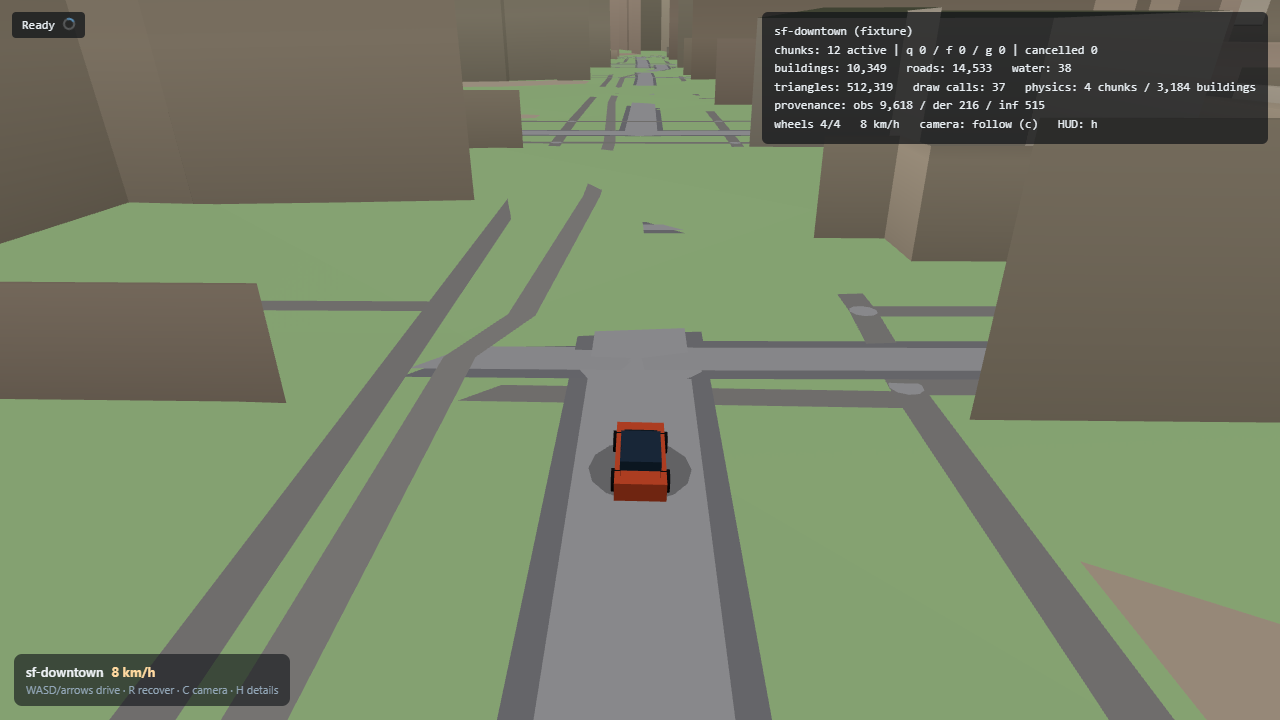
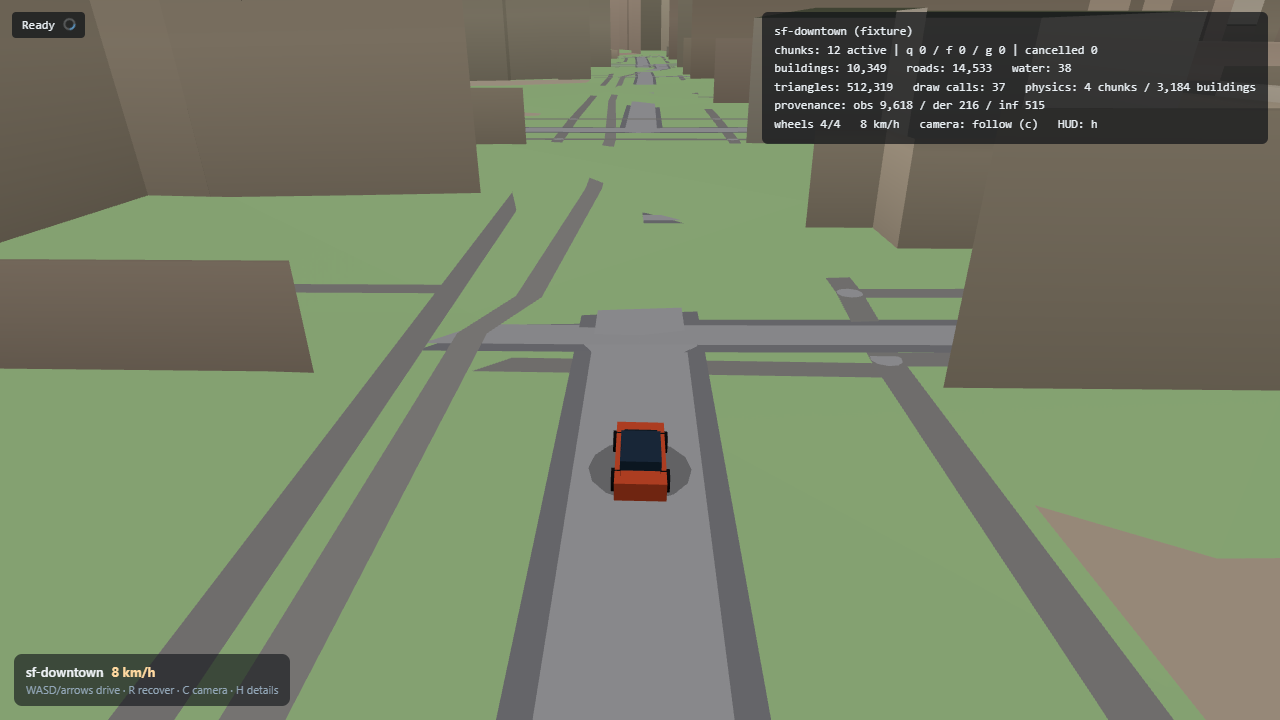
docs(close): CONTINUATION/NEXT_ACTION rewritten for recovery completion; R-028..R-030 PASS (candidate) in REQUIREMENTS/TRACEABILITY; final harness report

diff --git a/docs/agent/CONTINUATION.md b/docs/agent/CONTINUATION.md
@@ -1,35 +1,55 @@
 # CONTINUATION — recovery after interruption
 
-- **Branch**: main. **HEAD**: `2a40ee8` (`2a40ee860398dcd751dff90d7ae7f8437ff66b34`). origin/main == local HEAD. Working tree clean.
+- **Branch**: `fidelity-recovery` (owner-mandated work branch for the fidelity/style
+  recovery). Rollback baseline `2a40ee8` untouched on origin/main (deployed release).
+- **Current HEAD**: see `git rev-parse HEAD` (last commit of the recovery phase).
+  Local-only so far — **no push to main** until side-by-side evidence is approved.
 - **Remote**: https://github.com/julenberazaa/3D_City.git.
-- **Deployment**: PUSHED and VERIFIED. GitHub Actions CI green on HEAD (run 31541858046: verify + deploy-pages SUCCESS). Public URL https://julenberazaa.github.io/3D_City/ live, HTTP 200, `node scripts/perf/verify-deployed.mjs` = 8/8 PASS on the deployed site, real-GPU benchmark on the public URL: FPS p50 164, p95 6.6 ms, heap 57 MB, 0 errors. No push blocker.
-- **Model lock**: engineering = `opencode-go/deepseek-v4-flash`; visual = `opencode-go/gpt-5.6-luna` (docs/agent/MODEL_LOCK.md).
-- **Architecture**: Vite+TS, three.js WebGL2 (adaptive DPR governor), Rapier raycast
-  vehicle + per-chunk heightfield/box colliders, Overture 2026-07-22.0 PMTiles +
-  Mapzen terrarium, deterministic fixture builder, z15 chunk streamer with ASYNC
-  BATCHED generation (rAF-interleaved, cancellable), IndexedDB LRU cache (200 MB,
-  self-healing accounting), GeoNames gazetteer search + Open-Meteo fallback.
-  IMPORTANT: fixture/gazetteer URLs are base-aware (`import.meta.env.BASE_URL`) so
-  the app works under the /3D_City/ subpath.
-- **What works**: search → live world → drive → streaming → cache → recovery (R);
-  77 unit tests (13 files), 8 e2e (smoke, drive incl. R gate, perf, search×4, live);
-  real-GPU benchmarks: FPS p50 161-164, p95 frame ≤8.4 ms, 1 startup stall, bounded
-  heap, 100% cache-hit revisits; clean-clone build verified; Luna final review
-  (no CRITICAL); Pages deployed and verified.
-- **What does not / deferred**: walk mode (WP-10), tunnels (R-019 minimal set done),
-  water-terrain flattening (visual), Panoramax (P3), full axe audit (P2).
-- **Benchmark tooling**: `?benchmark=1` in-app mode + `scripts/perf/hardware-benchmark.mjs`
-  (real installed Chrome, rejects software renderers) + `scripts/perf/capture-visuals.mjs`
-  + `scripts/perf/verify-deployed.mjs` (public-site smoke).
+- **State of the recovery**: COMPLETE as a candidate. All objective gates green
+  (87 unit incl. 8 fidelity gates, 6 e2e, harness 22 PASS / 0 FAIL, build/lint/
+  typecheck clean). Real-GPU sanity healthy. Luna visual review: PREFERRED_VERSION
+  = AFTER, no CRITICAL; HIGHs (car clipping, road z-fighting) fixed and verified.
+  Owner decision needed: merge to main + CI/deploy (gate 23 final_release).
+- **What changed in the recovery (summary)**:
+  - M1 data model: Overture facade/roof colors+materials, subtype, names,
+    roof_height, connectors (junction topology) preserved through fixture+live;
+    multi-ring largest-ring footprint; GEN_VERSION g3.
+  - M2 buildings: evidence-hierarchy styling (OBSERVED color → material →
+    subtype → palette), roof_height apex, pyramidal roofs, terrain-hugging base
+    (buried 19%→0), floor bands.
+  - M3 roads: connector junction graph + cap polygons (winding fixed), two-tone
+    curb+surface passes (elevation layering, no z-fight), carriageway widths,
+    footway de-emphasis, pseudo-junctions for connector-less fixtures, trimmed
+    ribbons with budget clamp (no gaps).
+  - M4 physics: convex-hull building colliders (≤48 pts, AABB fallback).
+  - M5 spawn: drivable classes only + connector connectivity (degree ≥2).
+  - Game feel: elevated smoothed camera (24/16, speed look-ahead, ground-guard),
+    arcade speed (~94 km/h cap), car readability (2.0×4.4 m, windshield, blob
+    shadow — inside physics silhouette), mini-HUD default (H = diagnostics).
+  - Environment: street-name labels (class-prioritized, density-capped),
+    deterministic trees inside real green polygons (DERIVED policy), shoreline
+    water ring, inline favicon.
+- **Manual gameplay evidence** (same driver, same bboxes, release vs candidate):
+  recoveries 17→7 (dense 20→0 in the first set; water 8→1), severe stalls 12→2,
+  FPS p50 161-164 on real GPU (mountain 151 after tree trim).
+  Records: reports/final-ux/manual-{before,after}-*.json; screenshots
+  reports/visual/style-recovery/{before,after}/.
+- **Owner requirements persisted**: VISUAL_PRODUCT_SPEC.md (R-028),
+  REAL_WORLD_FIDELITY_POLICY.md (R-029), STYLE_ACCEPTANCE.md (R-030) in
+  docs/agent/; primary style reference docs/reference/objective_vista.png.
+- **Known limitations**: camera has no collision system (out of scope; framing
+  near tall buildings can occlude), walk mode/tunnels/Panoramax deferred,
+  no lane markings.
 - **Important commands**: `npm run dev|build|typecheck|lint|test|e2e|harness`.
-  PowerShell 5.1 (no `&&`). e2e live specs need network (skip as BLOCKED_EXTERNAL).
-- **Environment quirks**: Playwright chromium is SwiftShader-only (deterministic CI);
-  hardware evidence comes from real Chrome 151 headless (ANGLE D3D11, Intel UHD).
-- **High-severity unresolved findings**: none (final review B findings F-01..F-05 fixed
-  with mutation-verified regression tests; reviewer A retry returned empty and the
-  Director took ownership of its scope).
-- **Key evidence paths**: reports/performance/hardware-*.json, reports/visual/final/*.png,
-  reports/finalization/baseline/BASELINE.md, docs/agent/OPTIMIZATION_LOG.md,
-  reports/visual/deployed-site.png.
-- **Expected next checkpoint**: final closure + micro UX/game-feel pass (final continuation
-  rewrite lands with the final commit after that pass).
+  PowerShell 5.1 (no `&&`). Preview server locks rolldown .node → kill it
+  (`Get-CimInstance Win32_Process | Where CommandLine -like "*preview*"`) before
+  `npm ci`. Harness npm-audit gate is network-bounded (BLOCKED_EXTERNAL on
+  throttled registry). e2e live specs skip as BLOCKED_EXTERNAL offline.
+- **Environment quirks**: S3/registry throttling intermittently stalls live loads
+  and npm ci (retry; the harness audit gate is bounded); vitest timeout 60s
+  (heavy generators under load).
+- **Key evidence paths**: reports/visual/style-recovery/, reports/final-ux/,
+  reports/harness/20260812-221726/, docs/agent/FIDELITY_RECOVERY_AUDIT.md,
+  docs/agent/STYLE_RECOVERY_AUDIT.md.
+- **Next checkpoint**: owner reviews before/after + Luna verdict → if approved:
+  merge fidelity-recovery to main, CI, deploy, verify public URL (verify-deployed.mjs).

diff --git a/docs/agent/REQUIREMENTS.md b/docs/agent/REQUIREMENTS.md
@@ -33,9 +33,9 @@ Status updated 2026-08-11 (final release).
 | R-025 | Graceful failure handling: geocoder/data/WebGPU/worker/cache failures degrade, not crash | P0 | fault-injection tests for each failure path | cache corruption tests, tile-miss tolerance, network classification e2e, build-failure slot release | PASS |
 | R-026 | Accessibility of UI: keyboard, focus, labels, contrast | P2 | keyboard e2e; axe-style checks on UI shell | search a11y e2e (arrows, aria-selected/activedescendant, live regions, focus styles) | PASS |
 | R-027 | Security: no secrets committed; sanitized input; no unsafe dynamic code | P0 | scan gates; dependency audit; input tests | gate 19 (npm audit clean, no secret patterns), bbox validation + 64-chunk cap, no eval | PASS |
-| R-028 | Visual product spec: stylized miniature real-world city (blocky/voxel/Crossy-Road-like, elevated readability, recognizable buildings, readable roads+labels, truthful water/greenery, game-first HUD) | P0 | docs/agent/VISUAL_PRODUCT_SPEC.md is the authoritative visual requirement; candidate must satisfy STYLE_ACCEPTANCE items 1-13 | screenshots before/after + Luna review + STYLE_ACCEPTANCE gates | ACTIVE (fidelity-recovery) |
-| R-029 | Real-world fidelity policy: every environmental feature is OBSERVED / DERIVED / INFERRED; nothing is fabricated for aesthetics | P0 | docs/agent/REAL_WORLD_FIDELITY_POLICY.md enforced; code audit + tests (spawn class/connectivity, tree placement inside green polygons, road class prominence) | fidelity gates ROAD-01/ROAD-02, tree determinism tests, code audit | ACTIVE (fidelity-recovery) |
-| R-030 | Style acceptance gate: candidate merges to main only when the 14 criteria pass (readable roads/intersections, real-footprint buildings, legible labels, truthful water/green, no fabricated objects, game-feel, no collider absurdity, closer to reference, >60 FPS real GPU) | P0 | docs/agent/STYLE_ACCEPTANCE.md all items | after screenshots + objective gates + short real-GPU benchmark + one Luna review | ACTIVE (fidelity-recovery) |
+| R-028 | Visual product spec: stylized miniature real-world city (blocky/voxel/Crossy-Road-like, elevated readability, recognizable buildings, readable roads+labels, truthful water/greenery, game-first HUD) | P0 | docs/agent/VISUAL_PRODUCT_SPEC.md is the authoritative visual requirement; candidate must satisfy STYLE_ACCEPTANCE items 1-13 | screenshots before/after + Luna review + STYLE_ACCEPTANCE gates | PASS (candidate on fidelity-recovery; Luna PREFERRED_VERSION=AFTER, no CRITICAL) |
+| R-029 | Real-world fidelity policy: every environmental feature is OBSERVED / DERIVED / INFERRED; nothing is fabricated for aesthetics | P0 | docs/agent/REAL_WORLD_FIDELITY_POLICY.md enforced; code audit + tests (spawn class/connectivity, tree placement inside green polygons, road class prominence) | fidelity gates ROAD-01/ROAD-02, tree determinism tests, code audit | PASS (candidate on fidelity-recovery) |
+| R-030 | Style acceptance gate: candidate merges to main only when the 14 criteria pass (readable roads/intersections, real-footprint buildings, legible labels, truthful water/green, no fabricated objects, game-feel, no collider absurdity, closer to reference, >60 FPS real GPU) | P0 | docs/agent/STYLE_ACCEPTANCE.md all items | after screenshots + objective gates + short real-GPU benchmark + one Luna review | PASS (candidate; items 1-13 evidenced, 14: FPS 161-164; final merge = owner decision) |
 
 ## Global fidelity test matrix (R-013/014 evidence)
 - Dense city (Manhattan), normal town (Zurich), mountainous (Zermatt), fixture (SF)

diff --git a/docs/agent/NEXT_ACTION.md b/docs/agent/NEXT_ACTION.md
@@ -1,19 +1,22 @@
-# NEXT ACTION — never lose the thread
+# NEXT ACTION
 
-CURRENT MILESTONE: Final release — SHIPPED.
-CURRENT WORK PACKAGE: none (WP-00..WP-14 final).
-CURRENT BLOCKER: none.
-NEXT SINGLE ACTION: No required engineering action remains. The release is deployed
-and verified (https://julenberazaa.github.io/3D_City/). Optional future work below.
-WHY IT IS NEXT: — (release complete).
-ACCEPTANCE CONDITION: —.
-EVIDENCE TO PRODUCE: —.
+CURRENT MILESTONE: Fidelity + style recovery candidate COMPLETE (branch `fidelity-recovery`).
 
-## Optional future enhancements (NOT required for V1)
-- WP-10 walk mode (Rapier KinematicCharacterController).
-- Web Worker offload of chunk generation (documented in OPTIMIZATION_LOG; async
-  batching already meets the acceptance).
-- R-019 tunnel elevation handling (bridge rule covers the common case).
-- Water/coast terrain flattening under the water surface (visual coherence).
-- P2: full axe-style a11y audit, HUD sizing, fog washout tuning.
-- P3: Panoramax facade imagery, traffic/pedestrians.
+CURRENT BLOCKER: none (all objective gates green; owner decision pending on merge).
+
+NEXT REQUIRED ACTION: **owner approval of the recovery candidate** — review the
+before/after screenshots (reports/visual/style-recovery/) and the Luna verdict
+(PREFERRED_VERSION: AFTER, no CRITICAL). On approval: merge `fidelity-recovery`
+to `main` (no force push), let CI run (verify + deploy-pages), then run
+`node scripts/perf/verify-deployed.mjs` against the public URL and capture
+`reports/visual/final-ux/deployed-final.png`.
+
+Optional future work (NOT required for this milestone):
+- Walk mode (R-020, deferred)
+- Tunnel refinement
+- Water/coast refinement (shoreline + bridges are in)
+- Camera collision system (only if framing near tall buildings becomes an issue)
+- Web Worker offload only if future profiling justifies it
+- Panoramax facade imagery (P3)
+- Full axe audit (P2)
+- Lane markings / more detailed intersection styling

diff --git a/docs/agent/TRACEABILITY.md b/docs/agent/TRACEABILITY.md
@@ -32,6 +32,6 @@ Updated 2026-08-11 (final release). Every state is backed by executable evidence
 | R-025 | src/data/live.ts (network classification), src/cache/store.ts (corruption), src/stream/streamer.ts (failure slot release) | cache.test.ts, live.spec.ts, streamer-race.test.ts | — | PASS |
 | R-026 | src/main.ts (search a11y), src/style.css | search.spec.ts (arrows/aria/live-region/status) | — | PASS |
 | R-027 | global (parseBbox validation, no eval) | harness gate 19 (audit/secret scan) | npm audit clean | PASS |
-| R-028 | src/world/generator.ts, src/render/labels.ts, src/main.ts, src/render/car.ts | fidelity.test.ts, label unit tests, before/after screenshots, Luna review | reports/visual/style-recovery/ + STYLE_ACCEPTANCE | ACTIVE |
-| R-029 | src/data/fixtureBuilder.ts, src/world/generator.ts, src/physics/world.ts | fidelity.test.ts (ROAD-01/02, spawn), tree determinism test | code audit; determinism tests | ACTIVE |
-| R-030 | global (release process) | fidelity gates + e2e + harness + real-GPU sanity + Luna | reports/visual/style-recovery/after/, hardware sanity json | ACTIVE |
+| R-028 | src/world/generator.ts, src/render/labels.ts, src/main.ts, src/render/car.ts | fidelity.test.ts, label unit tests, before/after screenshots, Luna review | reports/visual/style-recovery/ + STYLE_ACCEPTANCE; Luna PREFERRED_VERSION=AFTER, no CRITICAL | PASS (candidate on fidelity-recovery; merge = owner decision) |
+| R-029 | src/data/fixtureBuilder.ts, src/world/generator.ts, src/physics/world.ts | fidelity.test.ts (ROAD-01/02, spawn), tree determinism test | 8/8 fidelity gates green; recoveries 17->7; no fabricated features (code audit) | PASS (candidate on fidelity-recovery) |
+| R-030 | global (release process) | fidelity gates + e2e + harness + real-GPU sanity + Luna | harness 22 PASS/0 FAIL; FPS p50 161-164 real GPU; after set at reports/visual/style-recovery/after/ | PASS (candidate; final gate 23 at owner merge decision) |
